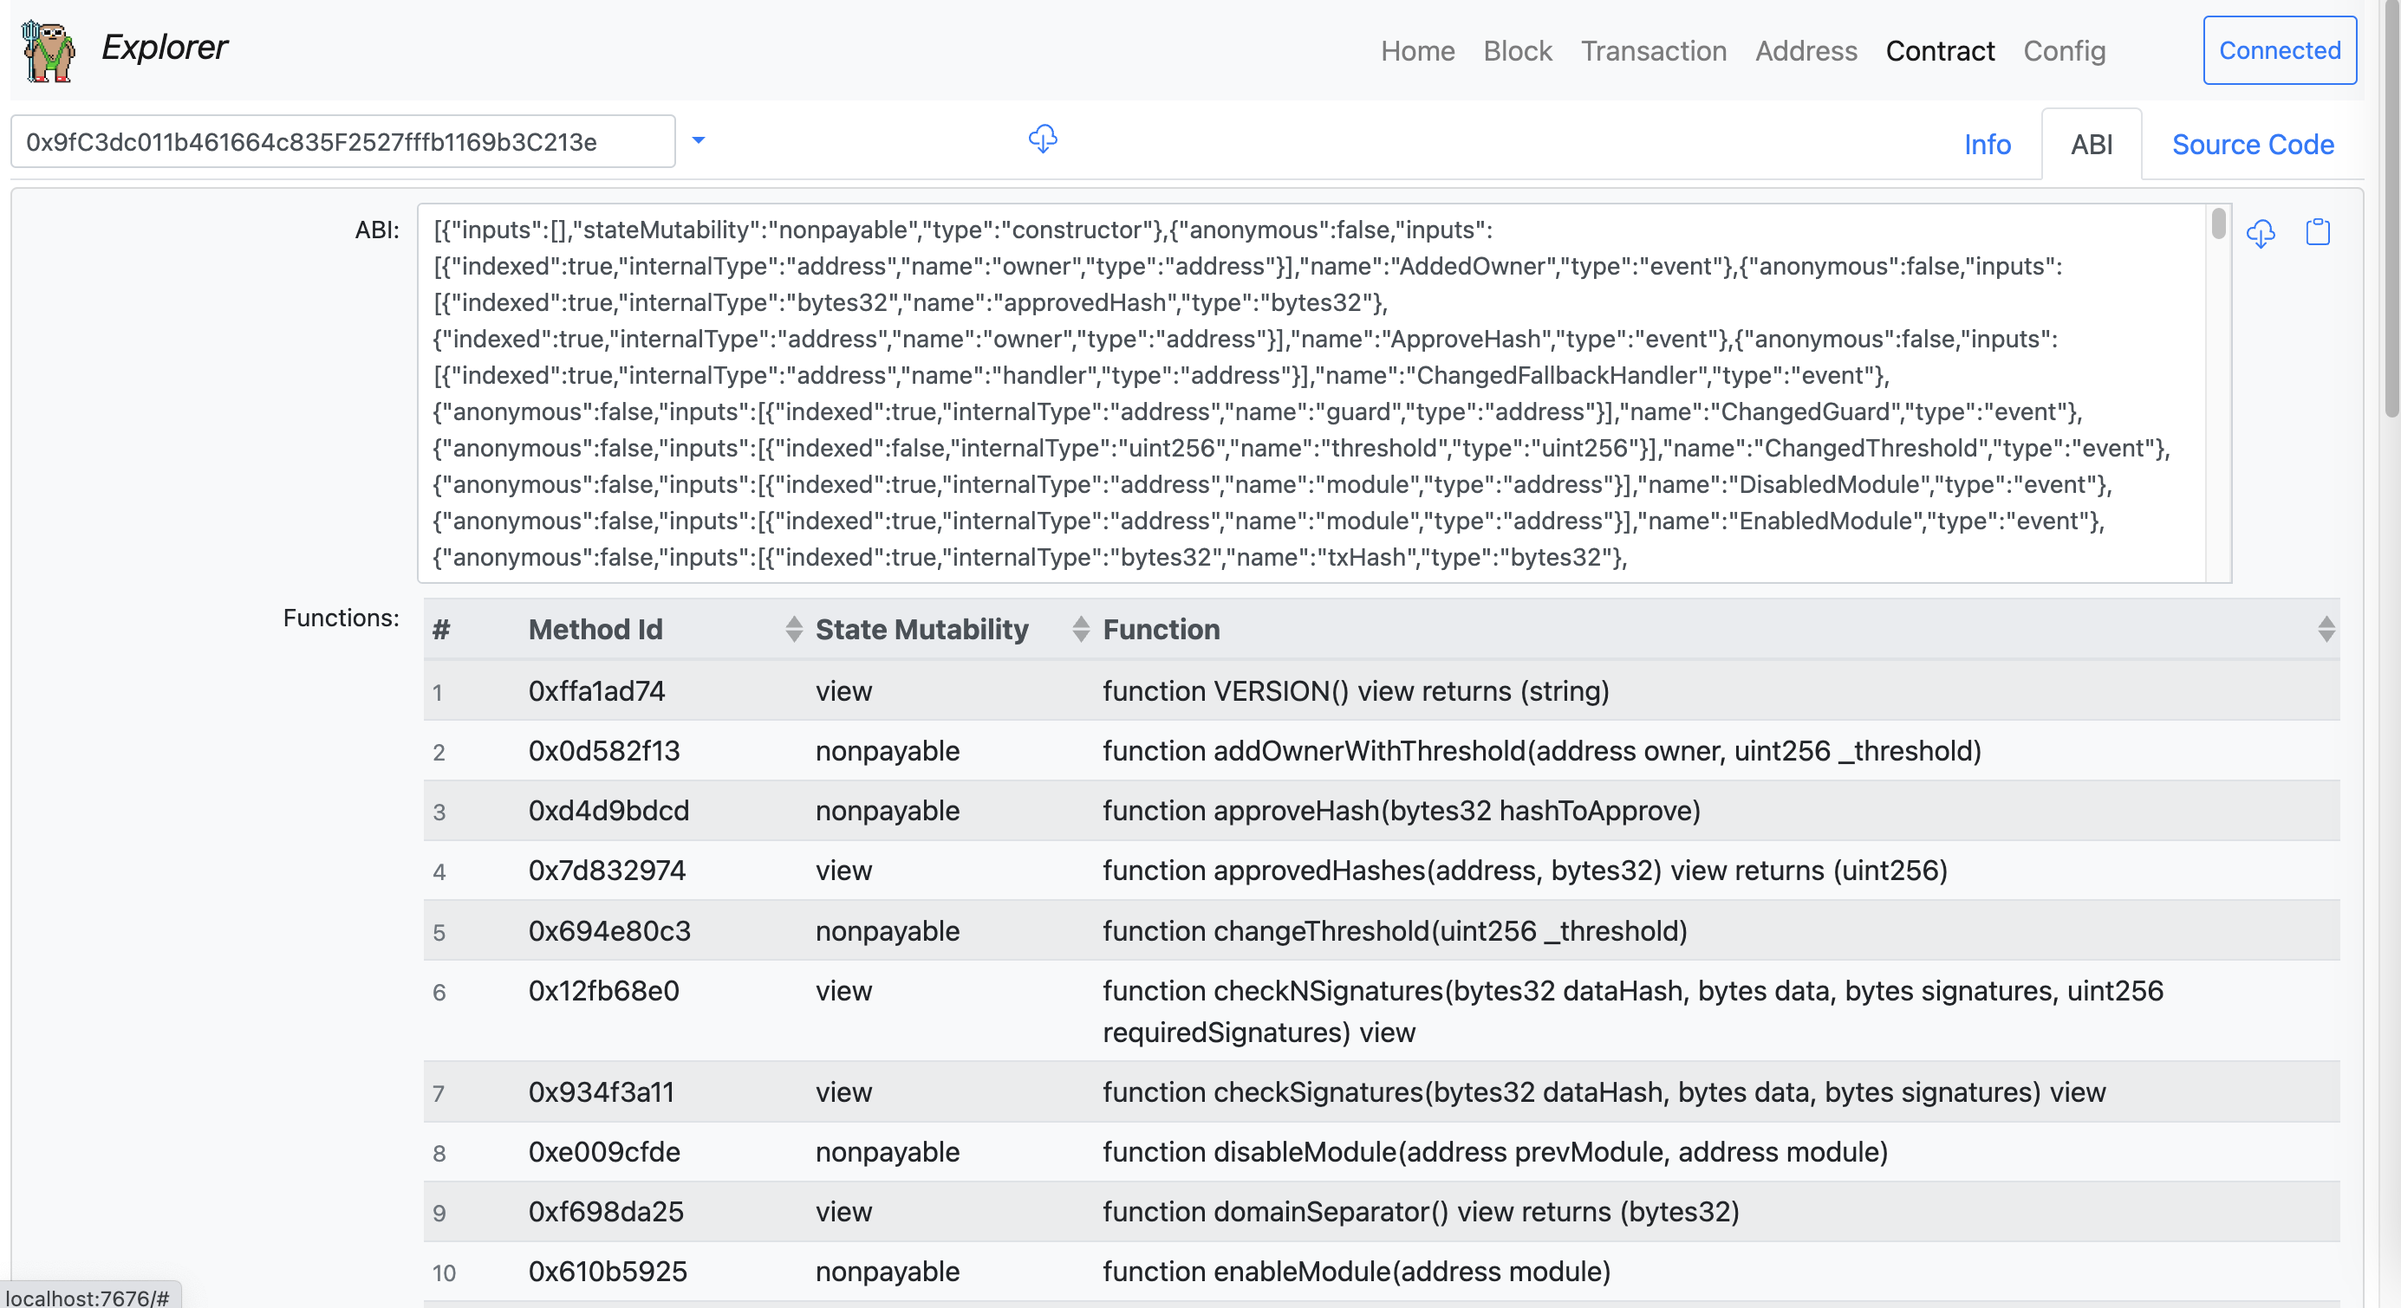
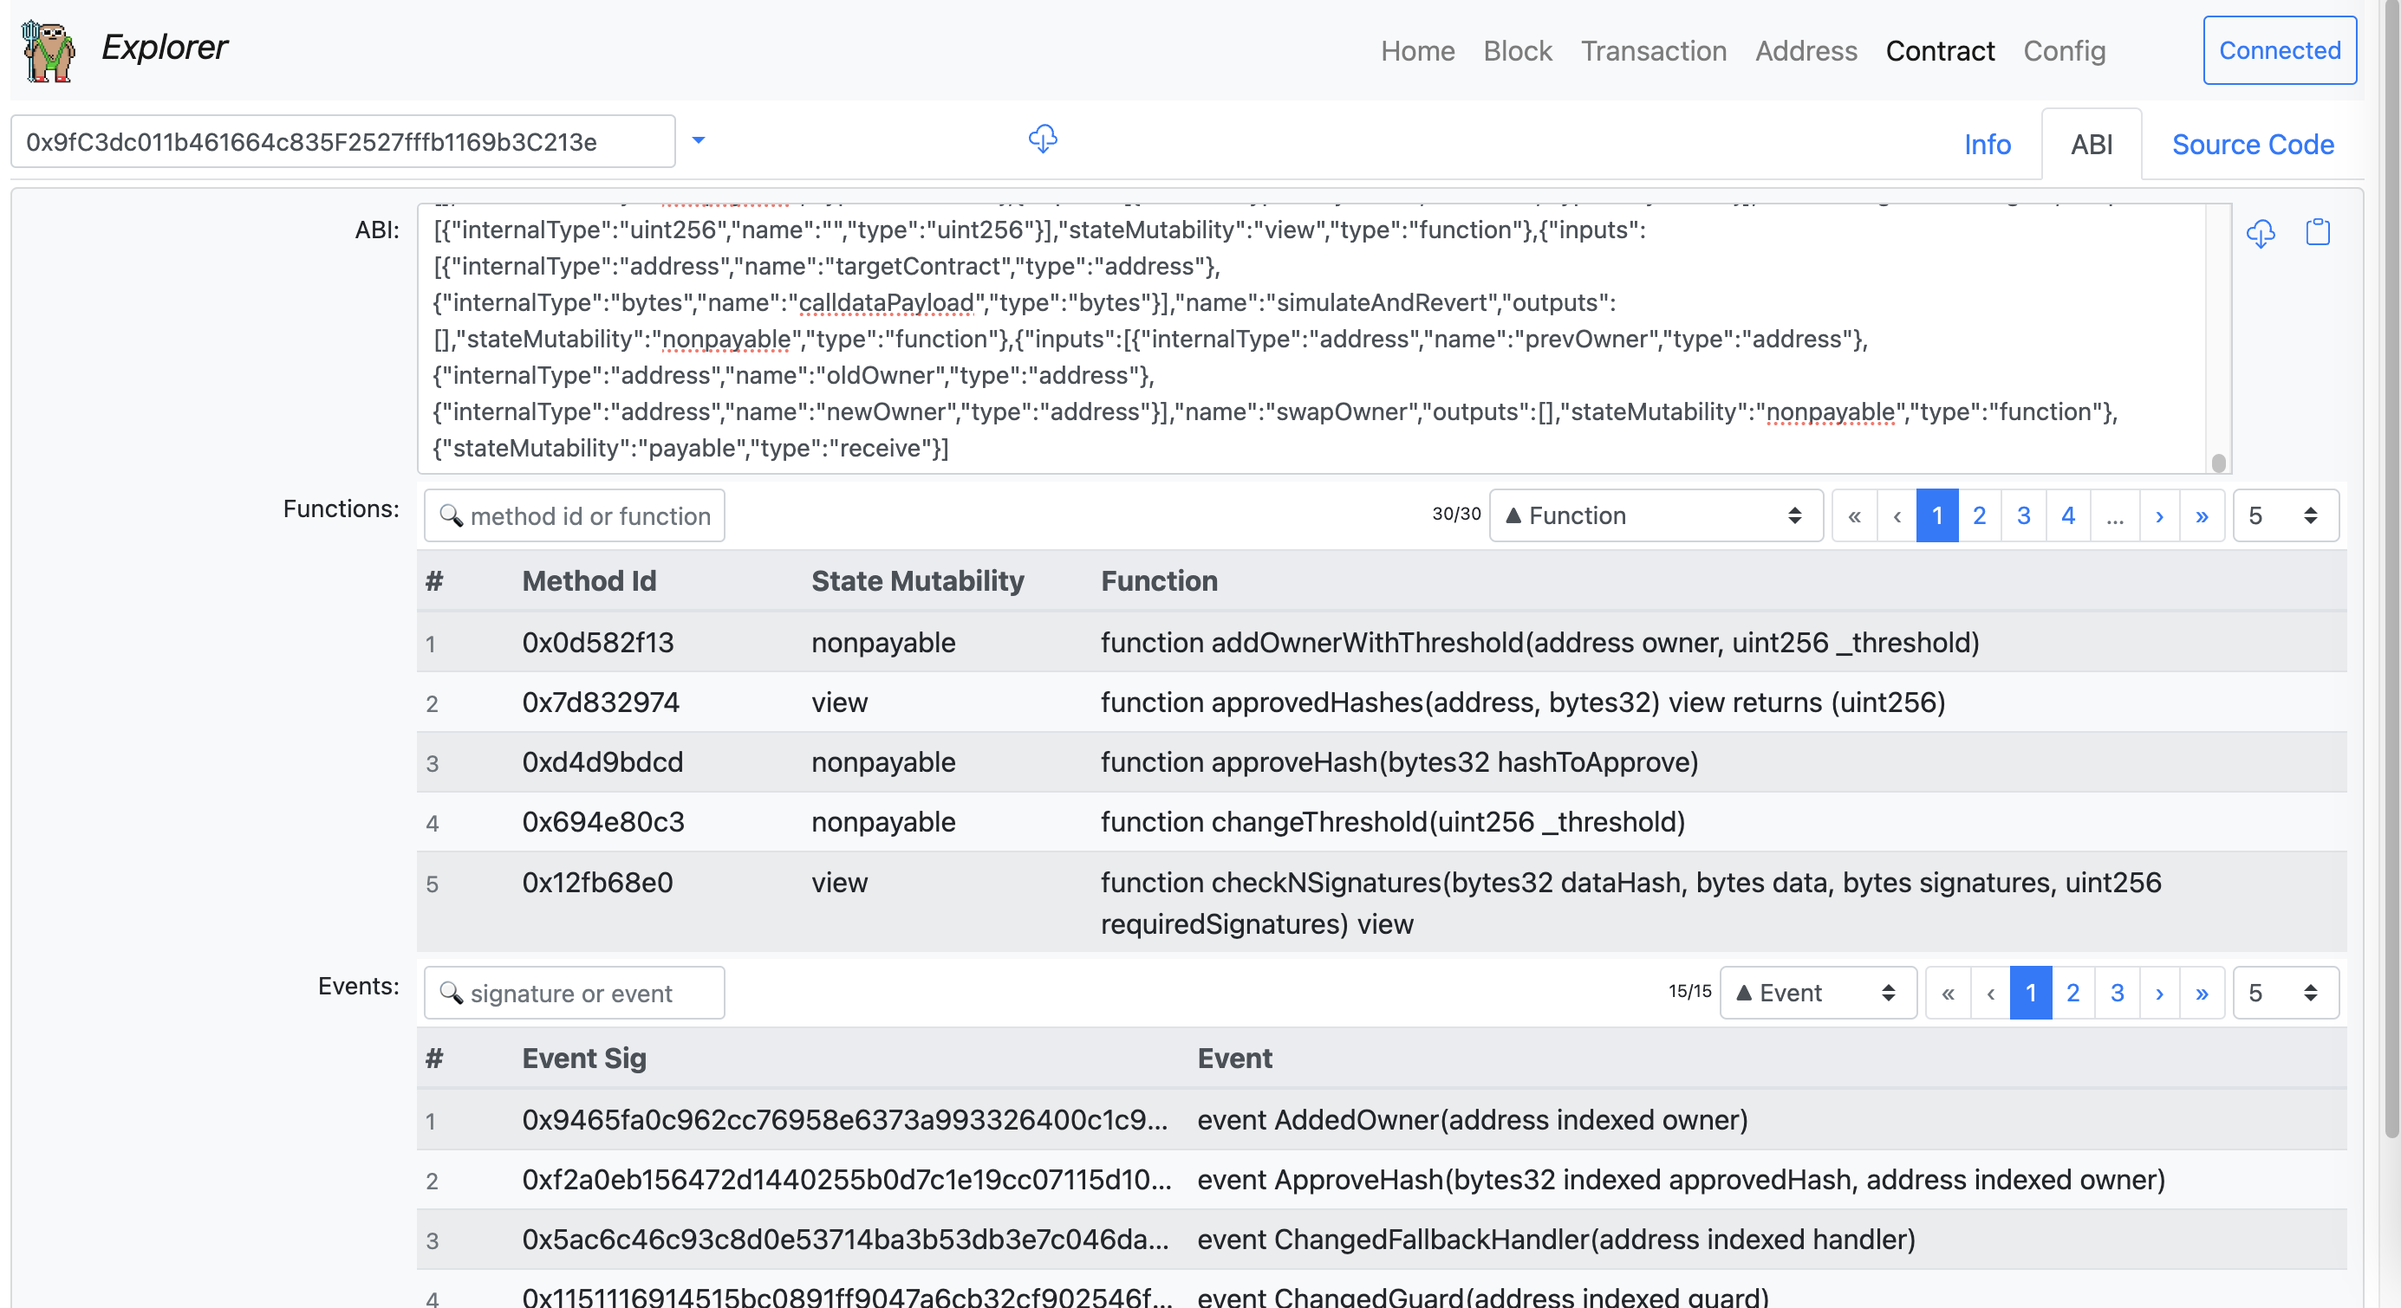
contract functions and events listing

diff --git a/docs/contract.js b/docs/contract.js
@@ -85,7 +85,7 @@ info: {{ info }}
             <div v-if="settings.tabIndex == 1">
               <b-form-group label="ABI:" label-for="contractabi-abi" label-size="sm" label-cols-sm="2" label-align-sm="right" class="mx-0 my-1 p-0">
                 <b-input-group class="align-items-start">
-                  <b-form-textarea size="sm" id="contractabi-abi" :value="info.abi && JSON.stringify(info.abi) || null" @change="updateABI(inputAddress, $event)" rows="5" max-rows="10"></b-form-textarea>
+                  <b-form-textarea size="sm" id="contractabi-abi" :value="info.abi && JSON.stringify(info.abi) || null" @change="updateABI(inputAddress, $event)" rows="4" max-rows="7"></b-form-textarea>
                   <b-input-group-append>
                     <b-button :disabled="!etherscanAPIKey || !info.address" size="sm" @click="importABIFromEtherscan();" variant="link" v-b-popover.hover.top="'Import ABI from https://api.etherscan.io/. You will need to enter your Etherscan API key in the Config page'">
                       <b-icon-cloud-download shift-v="-3" font-scale="1.2"></b-icon-cloud-download>
@@ -97,15 +97,31 @@ info: {{ info }}
                 </b-input-group>
               </b-form-group>
               <b-form-group label="Functions:" label-for="contractabi-functions" label-size="sm" label-cols-sm="2" label-align-sm="right" class="mx-0 my-1 p-0">
-                <b-table small fixed striped responsive hover :fields="functionFields" :items="functionList" show-empty empty-html="zzz" head-variant="light" class="mx-0 my-0 p-1">
+                <div class="d-flex flex-wrap m-0 p-1 bg-white">
+                  <div class="mt-0 pr-1">
+                    <b-form-input type="text" size="sm" v-model.trim="settings.functionsTable.filter" @change="saveSettings" debounce="600" v-b-popover.hover.top="'Regex filter by method id or function'" placeholder="🔍 method id or function"></b-form-input>
+                  </div>
+                  <div class="mt-0 flex-grow-1">
+                  </div>
+                  <div class="mt-0 pl-1">
+                    <font size="-2" v-b-popover.hover.bottom="'# Filtered / Functions'">{{ filteredSortedFunctions.length + "/" + functionsList.length }}</font>
+                  </div>
+                  <div class="mt-0 pl-1">
+                    <b-form-select size="sm" v-model="settings.functionsTable.sortOption" @change="saveSettings" :options="functionsSortOptions" v-b-popover.hover.top="'Yeah. Sort'"></b-form-select>
+                  </div>
+                  <div class="mt-0 pl-1">
+                    <b-pagination size="sm" v-model="settings.functionsTable.currentPage" :total-rows="functionsList.length" :per-page="settings.functionsTable.pageSize" style="height: 0;"></b-pagination>
+                  </div>
+                  <div class="mt-0 pl-1">
+                    <b-form-select size="sm" v-model="settings.functionsTable.pageSize" @change="saveSettings" :options="pageSizes" v-b-popover.hover.bottom="'Yeah. Page size'"></b-form-select>
+                  </div>
+                </div>
+                <b-table small fixed striped responsive hover :fields="functionFields" :items="pagedFilteredSortedFunctions" show-empty empty-html="zzz" head-variant="light" class="m-0 p-0">
                   <template #cell(index)="data">
                     <font size="-1" class="text-muted">
-                      {{ data.index + 1 }}
+                      {{ parseInt(data.index) + ((settings.functionsTable.currentPage - 1) * settings.functionsTable.pageSize) + 1 }}
                     </font>
                   </template>
-                  <!-- <template #cell(name)="data">
-                    {{ data.item.name }}
-                  </template> -->
                   <template #cell(fullName)="data">
                     {{ data.item.fullName }}
                   </template>
@@ -134,10 +150,29 @@ info: {{ info }}
                 </b-table>
               </b-form-group>
               <b-form-group label="Events:" label-for="contractabi-events" label-size="sm" label-cols-sm="2" label-align-sm="right" class="mx-0 my-1 p-0">
-                <b-table small fixed striped responsive hover :fields="eventFields" :items="eventList" show-empty empty-html="zzz" head-variant="light" class="mx-0 my-0 p-1">
+                <div class="d-flex flex-wrap m-0 p-1 bg-white">
+                  <div class="mt-0 pr-1">
+                    <b-form-input type="text" size="sm" v-model.trim="settings.eventsTable.filter" @change="saveSettings" debounce="600" v-b-popover.hover.top="'Regex filter by signature or event'" placeholder="🔍 signature or event"></b-form-input>
+                  </div>
+                  <div class="mt-0 flex-grow-1">
+                  </div>
+                  <div class="mt-0 pl-1">
+                    <font size="-2" v-b-popover.hover.bottom="'# Filtered / Events'">{{ filteredSortedEvents.length + "/" + eventsList.length }}</font>
+                  </div>
+                  <div class="mt-0 pl-1">
+                    <b-form-select size="sm" v-model="settings.eventsTable.sortOption" @change="saveSettings" :options="eventsSortOptions" v-b-popover.hover.top="'Yeah. Sort'"></b-form-select>
+                  </div>
+                  <div class="mt-0 pl-1">
+                    <b-pagination size="sm" v-model="settings.eventsTable.currentPage" :total-rows="eventsList.length" :per-page="settings.eventsTable.pageSize" style="height: 0;"></b-pagination>
+                  </div>
+                  <div class="mt-0 pl-1">
+                    <b-form-select size="sm" v-model="settings.eventsTable.pageSize" @change="saveSettings" :options="pageSizes" v-b-popover.hover.bottom="'Yeah. Page size'"></b-form-select>
+                  </div>
+                </div>
+                <b-table small fixed striped responsive hover :fields="eventFields" :items="pagedFilteredSortedEvents" show-empty empty-html="zzz" head-variant="light" class="m-0 p-0">
                   <template #cell(index)="data">
                     <font size="-1" class="text-muted">
-                      {{ data.index + 1 }}
+                      {{ parseInt(data.index) + ((settings.eventsTable.currentPage - 1) * settings.eventsTable.pageSize) + 1 }}
                     </font>
                   </template>
                   <template #cell(fullName)="data">
@@ -191,21 +226,53 @@ info: {{ info }}
     return {
       settings: {
         tabIndex: 0,
-        version: 0,
+        functionsTable: {
+          filter: null,
+          currentPage: 1,
+          pageSize: 5,
+          sortOption: 'nameasc',
+        },
+        eventsTable: {
+          filter: null,
+          currentPage: 1,
+          pageSize: 5,
+          sortOption: 'nameasc',
+        },
+        version: 1,
       },
       info: {},
-      // TODO: 'methodId' sortable does not work
+      functionsSortOptions: [
+        { value: 'nameasc', text: '▲ Function' },
+        { value: 'namedsc', text: '▼ Function' },
+        { value: 'methodidasc', text: '▲ Method Id' },
+        { value: 'methodiddsc', text: '▼ Method Id' },
+        { value: 'mutabilityasc', text: '▲ Mutability, ▲ Function' },
+        { value: 'mutabilitydsc', text: '▼ Mutability, ▲ Function' },
+      ],
+      eventsSortOptions: [
+        { value: 'nameasc', text: '▲ Event' },
+        { value: 'namedsc', text: '▼ Event' },
+        { value: 'signatureasc', text: '▲ Signature' },
+        { value: 'signaturedsc', text: '▼ Signature' },
+      ],
+      pageSizes: [
+        { value: 5, text: '5' },
+        { value: 10, text: '10' },
+        { value: 15, text: '15' },
+        { value: 25, text: '25' },
+        { value: 50, text: '50' },
+        { value: 100, text: '100' },
+      ],
       functionFields: [
         { key: 'index', label: '#', sortable: false, thStyle: 'width: 5%;', tdClass: 'text-truncate' },
-        { key: 'methodId', label: 'Method Id', sortable: true, thStyle: 'width: 15%;', tdClass: 'text-truncate' },
-        { key: 'stateMutability', label: 'State Mutability', sortable: true, thStyle: 'width: 15%;', tdClass: 'text-truncate' },
-        { key: 'fullName', label: 'Function', sortable: true, thStyle: 'width: 65%;', tdClass: 'text-left' },
+        { key: 'methodId', label: 'Method Id', sortable: false, thStyle: 'width: 15%;', tdClass: 'text-truncate' },
+        { key: 'stateMutability', label: 'State Mutability', sortable: false, thStyle: 'width: 15%;', tdClass: 'text-truncate' },
+        { key: 'fullName', label: 'Function', sortable: false, thStyle: 'width: 65%;', tdClass: 'text-left' },
       ],
-      // TODO: 'eventSig' sortable does not work
       eventFields: [
         { key: 'index', label: '#', sortable: false, thStyle: 'width: 5%;', tdClass: 'text-truncate' },
-        { key: 'eventSig', label: 'Event Sig', sortable: true, thStyle: 'width: 35%;', tdClass: 'text-truncate' },
-        { key: 'fullName', label: 'Event', sortable: true, thStyle: 'width: 60%;', tdClass: 'text-left' },
+        { key: 'eventSig', label: 'Event Sig', sortable: false, thStyle: 'width: 35%;', tdClass: 'text-truncate' },
+        { key: 'fullName', label: 'Event', sortable: false, thStyle: 'width: 60%;', tdClass: 'text-left' },
       ],
     }
   },
@@ -220,7 +287,6 @@ info: {{ info }}
       return store.getters['db'];
     },
     functions() {
-      console.log(now() + " Contract - computed.functions");
       const results = {};
       if (this.info.abi) {
         try {
@@ -260,19 +326,123 @@ info: {{ info }}
       // console.log(now() + " Contract - computed.events - results: " + JSON.stringify(results, null, 2));
       return results;
     },
-    functionList() {
+    functionsList() {
       const results = [];
       for (const [methodId, functionData] of Object.entries(this.functions)) {
         results.push({ methodId, ...functionData });
       }
       return results;
     },
-    eventList() {
+    filteredSortedFunctions() {
+      const results = [];
+      let regex = null;
+      if (this.settings.functionsTable.filter != null && this.settings.functionsTable.filter.length > 0) {
+        try {
+          regex = new RegExp(this.settings.functionsTable.filter, 'i');
+        } catch (e) {
+          console.error(now() + " Contract - filteredSortedFunctions - ERROR regex: " + e.message);
+          regex = new RegExp(/thequickbrowndogjumpsoverthelazyfox/, 'i');
+        }
+      }
+      for (const item of this.functionsList) {
+        let include = true;
+        if (regex) {
+          if (!(regex.test(item.methodId)) && !(regex.test(item.fullName))) {
+            include = false;
+          }
+        }
+        if (include) {
+          results.push(item);
+        }
+      }
+      if (this.settings.functionsTable.sortOption == 'nameasc') {
+        results.sort((a, b) => {
+          return ('' + a.fullName).localeCompare(b.fullName);
+        });
+      } else if (this.settings.functionsTable.sortOption == 'namedsc') {
+        results.sort((a, b) => {
+          return ('' + b.fullName).localeCompare(a.fullName);
+        });
+      } else if (this.settings.functionsTable.sortOption == 'methodidasc') {
+        results.sort((a, b) => {
+          return ('' + a.methodId).localeCompare(b.methodId);
+        });
+      } else if (this.settings.functionsTable.sortOption == 'methodiddsc') {
+        results.sort((a, b) => {
+          return ('' + b.methodId).localeCompare(a.methodId);
+        });
+      } else if (this.settings.functionsTable.sortOption == 'mutabilityasc') {
+        results.sort((a, b) => {
+          if (('' + a.stateMutability).localeCompare(b.stateMutability) == 0) {
+            return ('' + a.fullName).localeCompare(b.fullName);
+          } else {
+            return ('' + a.stateMutability).localeCompare(b.stateMutability);
+          }
+        });
+      } else if (this.settings.functionsTable.sortOption == 'mutabilitydsc') {
+        results.sort((a, b) => {
+          if (('' + a.stateMutability).localeCompare(b.stateMutability) == 0) {
+            return ('' + a.fullName).localeCompare(b.fullName);
+          } else {
+            return ('' + b.stateMutability).localeCompare(a.stateMutability);
+          }
+        });
+      }
+      return results;
+    },
+    pagedFilteredSortedFunctions() {
+      return this.filteredSortedFunctions.slice((this.settings.functionsTable.currentPage - 1) * this.settings.functionsTable.pageSize, this.settings.functionsTable.currentPage * this.settings.functionsTable.pageSize);
+    },
+    eventsList() {
       const results = [];
       for (const [eventSig, eventData] of Object.entries(this.events)) {
         results.push({ eventSig, ...eventData });
       }
       return results;
+    },
+    filteredSortedEvents() {
+      const results = [];
+      let regex = null;
+      if (this.settings.eventsTable.filter != null && this.settings.eventsTable.filter.length > 0) {
+        try {
+          regex = new RegExp(this.settings.eventsTable.filter, 'i');
+        } catch (e) {
+          console.error(now() + " Contract - filteredSortedEvents - ERROR regex: " + e.message);
+          regex = new RegExp(/thequickbrowndogjumpsoverthelazyfox/, 'i');
+        }
+      }
+      for (const item of this.eventsList) {
+        let include = true;
+        if (regex) {
+          if (!(regex.test(item.eventSig)) && !(regex.test(item.fullName))) {
+            include = false;
+          }
+        }
+        if (include) {
+          results.push(item);
+        }
+      }
+      if (this.settings.eventsTable.sortOption == 'nameasc') {
+        results.sort((a, b) => {
+          return ('' + a.fullName).localeCompare(b.fullName);
+        });
+      } else if (this.settings.eventsTable.sortOption == 'namedsc') {
+        results.sort((a, b) => {
+          return ('' + b.fullName).localeCompare(a.fullName);
+        });
+      } else if (this.settings.eventsTable.sortOption == 'signatureasc') {
+        results.sort((a, b) => {
+          return ('' + a.eventSig).localeCompare(b.eventSig);
+        });
+      } else if (this.settings.eventsTable.sortOption == 'signaturedsc') {
+        results.sort((a, b) => {
+          return ('' + b.eventSig).localeCompare(a.eventSig);
+        });
+      }
+      return results;
+    },
+    pagedFilteredSortedEvents() {
+      return this.filteredSortedEvents.slice((this.settings.eventsTable.currentPage - 1) * this.settings.eventsTable.pageSize, this.settings.eventsTable.currentPage * this.settings.eventsTable.pageSize);
     },
   },
   methods: {
@@ -290,10 +460,10 @@ info: {{ info }}
       let info = {};
       if (validatedAddress) {
         info = await dbGetCachedData(db, validatedAddress + "_" + this.chainId + "_contract", {});
-        console.log(now() + " Contract - methods.loadData - info: " + JSON.stringify(info).substring(0, 1000) + "...");
+        console.log(now() + " Contract - methods.loadData - info: " + JSON.stringify(info).substring(0, 200) + "...");
         if (Object.keys(info).length == 0 || forceUpdate) {
           info = await getAddressInfo(validatedAddress, provider);
-          console.log(now() + " Contract - methods.loadData - info: " + JSON.stringify(info).substring(0, 1000) + "...");
+          console.log(now() + " Contract - methods.loadData - info: " + JSON.stringify(info).substring(0, 200) + "...");
           await dbSaveCacheData(db, validatedAddress + "_" + this.chainId + "_contract", info);
         }
       }

diff --git a/README.md b/README.md
@@ -24,8 +24,6 @@ Web3 dapp: https://bokkypoobah.github.io/Explorer/ connected to Ethereum Mainnet
 
 <kbd><img src="images/SampleScreen08.png" width="800" /></kbd>
 
-<kbd><img src="images/SampleScreen09.png" width="800" /></kbd>
-
 <br />
 
 <br />
